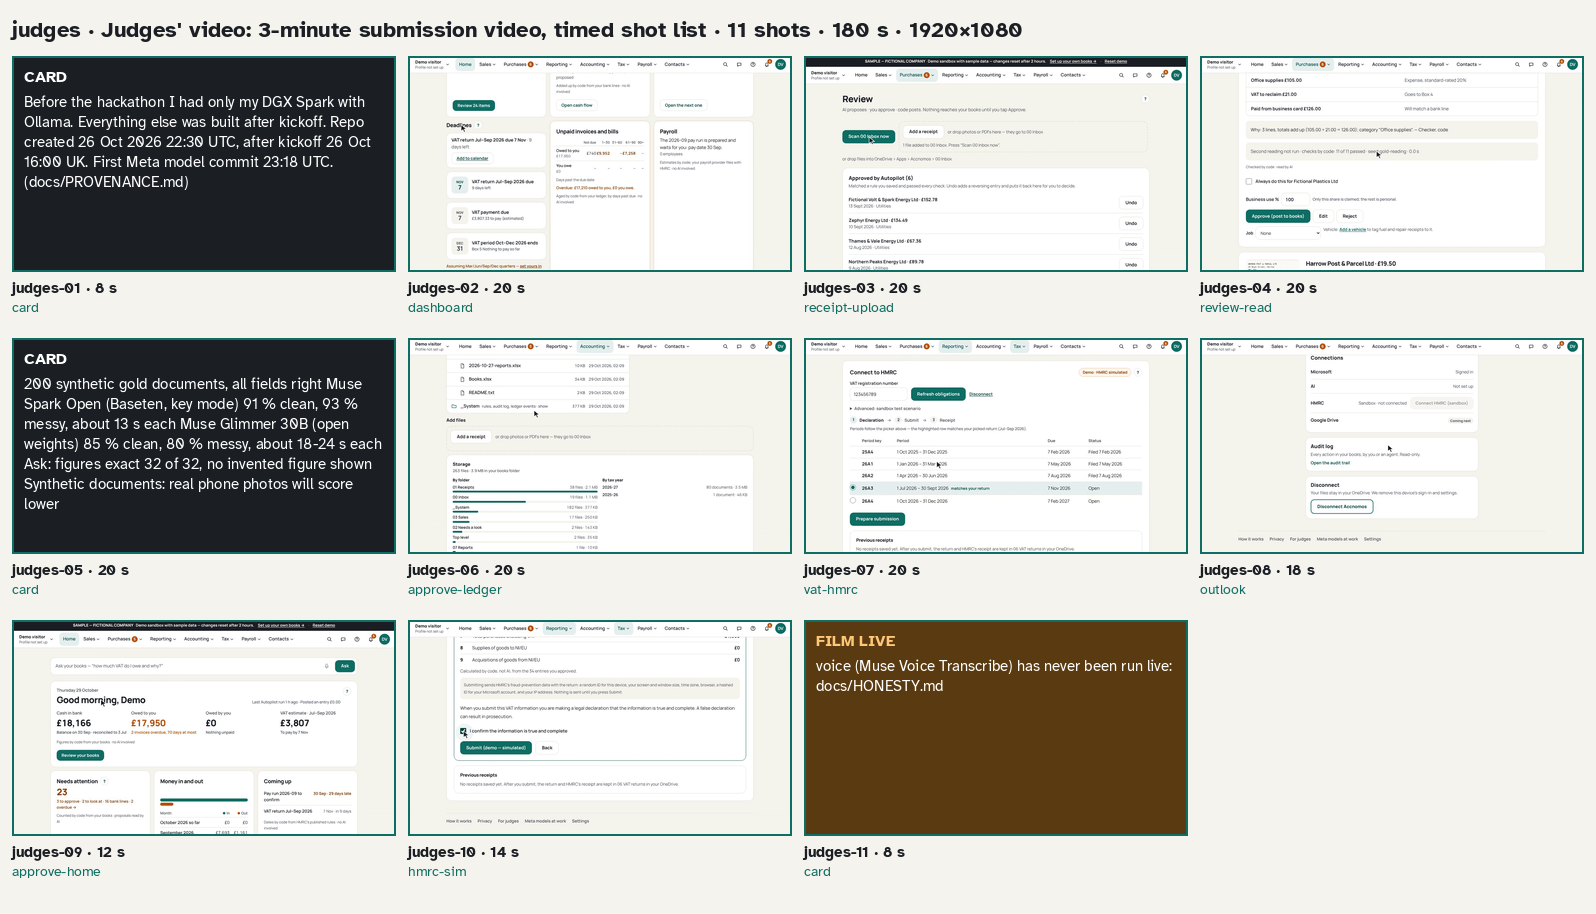
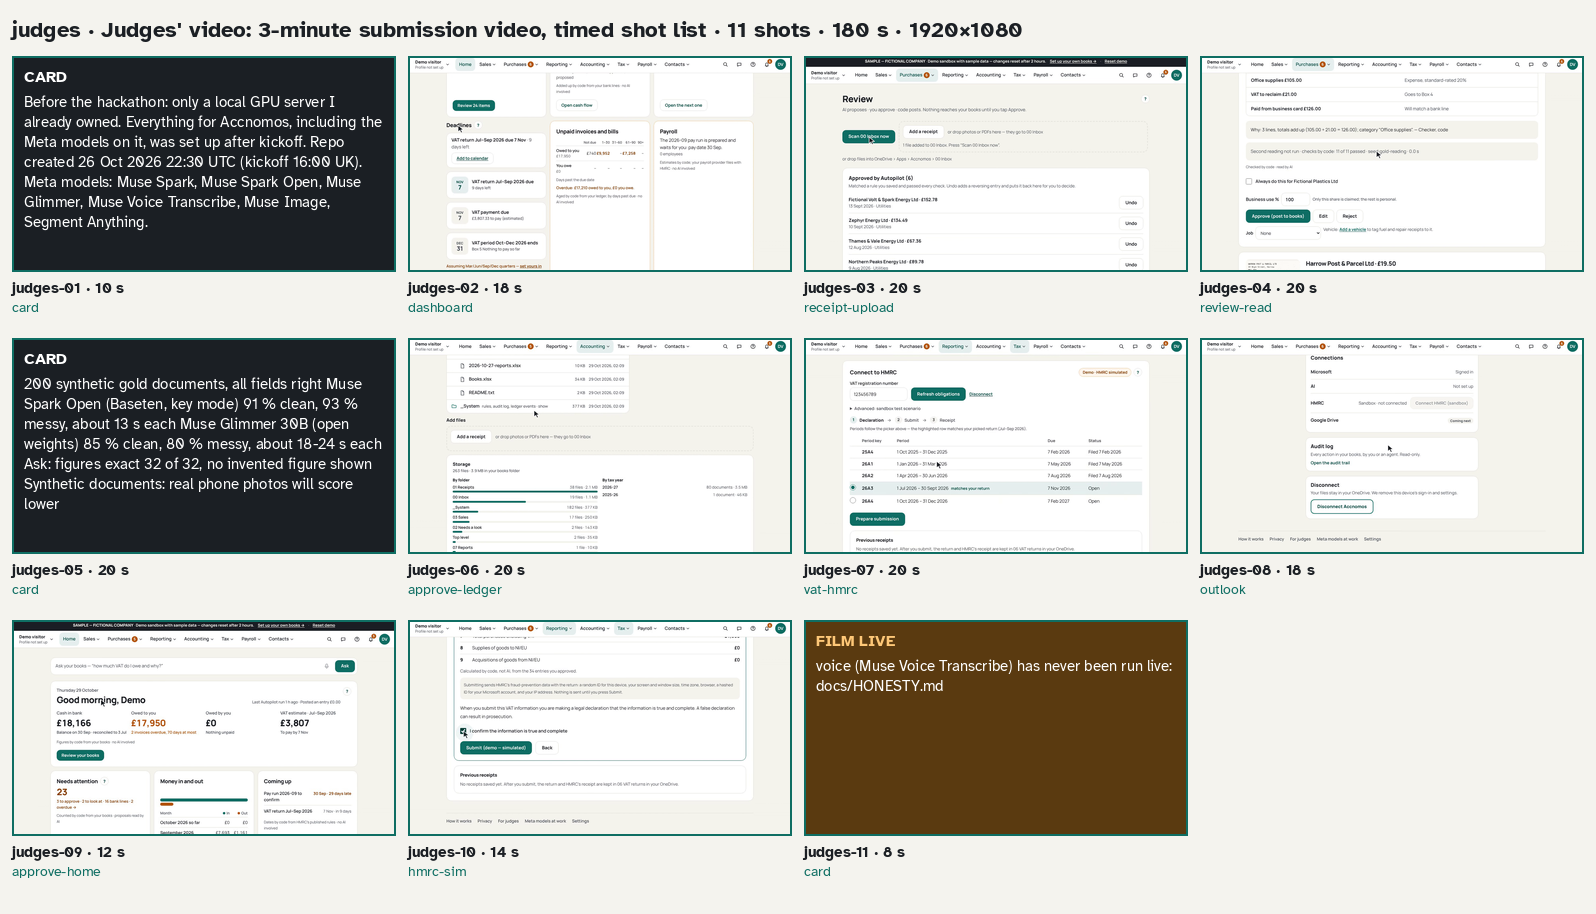
Judges' video: shot 1 in the owner's wording (10 s, no hardware or tool names, Meta model list checked on main), shot 2 18 s, end card credits Muse Image only; guide covers; README split into judge-facing and internal
Claude-Session: https://claude.ai/code/session_01HDbAb81oUbcP9a4zGEqsA9

Changed region(s): [[0.0, 0.0919, 0.2456, 0.2451], [0.307, 0.3063, 0.3377, 0.337], [0.0614, 0.3063, 0.0921, 0.337]]

diff --git a/docs/video/README.md b/docs/video/README.md
@@ -1,74 +1,58 @@
 # Video footage, previews and how-to screenshots
 
-Everything here is generated from the scripts by `tools/video/` (branch `claude/video-capture`, 29 Oct 2026):
+Everything here is generated from the scripts by `tools/video/` (branch `claude/video-capture`). How to regenerate it,
+step by step, is in `tools/video/README.md`.
+
+Credit: **Title art: Muse Image (Meta).**
 
 | What | Where | In git |
 |---|---|---|
 | Scripts (Muse Spark) | `JUDGES_VIDEO.md` (3:00, 11 shots), `CLIPS.md` (8 clips × 35 s) | yes |
-| Shot list with timing, caption, voice-over, flow, and why a shot must be re-filmed live | `manifest.json` | yes |
+| Prompts for the title, section, thumbnail and guide-cover art | `IMAGE_PROMPTS.md` (32 cards) | yes |
+| The art itself (Muse Image, `muse-image-1.0`), each with a JSON sidecar: model, prompt, date | `cards/<id>.png` | once generated |
+| Shot list with timing, caption, voice-over, flow, section, and why a shot must be re-filmed live | `manifest.json` | yes |
 | Contact sheets, one frame per shot | `contact-sheet-judges.png`, `contact-sheet-clip-01.png` … `-08.png` | yes |
-| Raw silent footage per shot (1920 × 1080 judges, 1080 × 1920 clips, VP9 WebM, 30 fps) | `raw/<shot-id>.webm` | under 5 MB each, yes; over 5 MB listed in `raw/.gitignore` |
-| Silent previews with burned captions | `preview/judges.mp4`, `preview/clip-01.mp4` … | no (regenerate) |
+| Raw silent footage per shot (1920 × 1080 judges, 1080 × 1920 clips, 30 fps) | `raw/<shot-id>.webm` | under 5 MB each, yes |
+| Silent previews with burned captions, and a 1280 × 720 thumbnail per video | `preview/<sequence>.mp4`, `preview/<sequence>-thumbnail.png` | no (regenerate) |
 | Final renders with voice-over | `out/<sequence>.mp4` | no |
-| Voice-over lines for TTS; the WAVs | `vo/lines.json`; `vo/<shot-id>.wav` | lines yes; WAVs your call |
-| How-to screenshots (1440 × 900, cropped, highlight box) | `../howto/img/<guide>-<N>.png` | yes |
+| Voice-over lines, one per shot | `vo/lines.json` (the WAVs go in `vo/<shot-id>.wav`) | lines yes |
+| How-to screenshots (1440 × 900, cropped, highlight box) and guide covers (1280 × 720) | `../howto/img/` | yes |
 
 ## Look first
 
 1. `contact-sheet-judges.png`: every judges' shot at a glance; amber tiles failed, brown tiles are *Film live* or
    camera placeholders.
-2. `preview/judges.mp4` (regenerate, or the copy sent in the session): the 3:00 cut with captions and cards, silent.
+2. `preview/judges.mp4` and `preview/judges-thumbnail.png` (regenerate with `tools/video/assemble.sh`).
 3. `manifest.json` → each shot's `live` field: what the test-mode build cannot show honestly (list below).
-4. `../howto/*.md`: the guides now render with their screenshots; `../howto/img/SHOTS.md` says which page and control
-   each picture boxes, and which are approximate.
+4. `../howto/*.md`: the guides render with a cover and a screenshot per step; `../howto/img/SHOTS.md` says which
+   control each picture boxes, and which are approximate.
 
-## Regenerate
+## Cards and art
 
-```bash
-tools/video/regenerate.sh
-```
+Every word on a card (titles, the provenance lines, the eval table, captions, the end card and its credit) is drawn by
+`tools/video/assemble.sh` on top of the art, so it is crisp and exactly as scripted; the art carries no text. Until
+`tools/video/muse_images.py` has made a card's picture, that card is plain brand colour (dark teal `#0A4F47`), so the
+previews always build.
 
-That runs, in order (each also works on its own):
+| Art | Used for |
+|---|---|
+| `judges-title` | Shot 1, the opening card on what existed before the event |
+| `section-impact`, `section-meta-ai`, `section-depth`, `section-demo` | Card shots in each part of the judges' video (the measured-numbers card is `section-meta-ai`); `section-demo` is also the end card |
+| `clip-NN-title` | The 2 s title card of each clip |
+| `thumb-judges`, `thumb-clip-NN` | Thumbnails |
+| `howto-<guide>` | Guide covers (`../howto/img/<guide>-cover.png`) |
 
-- `node tools/video/capture.ts [--skip-build] [--only judges-04,clip-03] [--plan]`: builds the test-mode export with
-  `NEXT_PUBLIC_SUBMISSION_MODE=1` (the judges' build), starts the test-mode runtime with `DEMO_MODE=1` and the static
-  server (unless already running on 8781 / 3100), and records every shot from Chromium's compositor (CDP screencast,
-  JPEG 92, then ffmpeg to constant 30 fps). Each shot starts a fresh demo sandbox off camera, so the books are the same
-  every time: the fictional Bramblewood Joinery Ltd, labelled SAMPLE — FICTIONAL COMPANY. `--plan` prints the shot →
-  flow table without recording.
-- `node tools/video/howto.ts [--only vat-return] [--dry-run]`: one screenshot per placeholder in `docs/howto/*.md`,
-  then rewrites the placeholder as the image (the "Must be visible" brief becomes its alt text).
-- `python3 tools/video/vo.py lines`: `vo/lines.json` for the TTS run.
-- `tools/video/assemble.sh [--final] [--only judges] [--no-test-tag]`: per shot, fit the footage to the script's
-  length (held on the last frame if short; sped up and tagged *sped up ×n* if long), burn the caption (Atkinson
-  Hyperlegible, white on a dark box, inside 10 % side and 8 % bottom margins; 12 % bottom in vertical clips so it sits
-  above the phone UI), draw cards (provenance, eval table, end card) from the script's text, and lay
-  `vo/<shot-id>.wav` on the shot or silence when there is none. The judges' video always opens with the provenance
-  card (the script's own shot 1, else a built-in one from `docs/PROVENANCE.md`); clips open on a 2 s title card.
+## Opening card (shot 1), the owner's rule
 
-Needs Node 22.18+ (it runs the TypeScript directly), `pnpm install` in `apps/web`, the runtime's Python
-(`uv sync --all-packages`, or `E2E_PYTHON`), and ffmpeg with libass and libvpx. Nothing contacts Meta, Microsoft or
-HMRC. A full capture takes about 10 minutes on a 4-core box.
+No hardware name and no third-party tool name anywhere judge-facing in the video. Shot 1 reads:
 
-How the pieces fit: `tools/video/lib/script.ts` reads both script layouts (headed "Shot N — … (0:08–0:28, 20 s)"
-sections with Screen / On-screen action / Caption / Voice-over paragraphs, and Markdown tables with Time, Screen,
-Caption and Voice-over columns); `tools/video/flows.ts` holds one scripted flow per thing a shot can show and
-`SHOT_PLAN`, the flow for each shot id; `tools/video/lib/human.ts` draws the cursor (headless Chromium paints none),
-glides it with easing, types at 55–130 ms a key and scrolls smoothly; `tools/video/lib/recorder.ts` records.
-When Muse changes a script, re-run `--plan`: a new shot id needs a line in `SHOT_PLAN` (otherwise a keyword rule picks
-a flow), and a changed duration needs nothing.
+> Before the hackathon: only a local GPU server I already owned. Everything for Accnomos, including the Meta models on
+> it, was set up after kickoff. Repo created 26 Oct 2026 22:30 UTC (kickoff 16:00 UK). Meta models: Muse Spark, Muse
+> Spark Open, Muse Glimmer, Muse Voice Transcribe, Muse Image, Segment Anything.
 
-## Voice-over on the Spark
-
-1. `git pull`, then `python3 tools/video/vo.py lines` (or use the committed `vo/lines.json`).
-2. Make the WAVs with the teaser's Kokoro set-up (voice `bm_george`, British English, 24 kHz mono):
-   `python tools/video/vo.py kokoro` writes `vo/<shot-id>.wav` for every line that has none (`--force` redoes them)
-   and prints each length against its shot. Any TTS works if the files keep those names. *Not run in the cloud
-   session that wrote it (no Kokoro there).*
-3. `tools/video/assemble.sh --final` → `out/judges.mp4` and `out/clip-NN.mp4` (H.264 CRF 18, AAC 160 kb/s).
-   It warns when a WAV is longer than its shot (the end is cut): shorten the line or lengthen the shot in the script.
-4. Swap in the live footage (below) by replacing `raw/<shot-id>.webm` with your recording, same name, then re-run
-   step 3. Once no stubbed screen is left, add `--no-test-tag`.
+The model list was checked on 29 Oct 2026 against `docs/submission/META_MODELS.md` on `main` (`715c564`): all six are
+in the build (Segment Anything is wired and off by default; Muse Image made the brand and title art). Check it again on
+the day you record and drop any that has left `main`.
 
 ## Shots the test-mode build cannot show honestly
 
@@ -79,7 +63,7 @@ the final cut. From `SHOT_PLAN` in `tools/video/flows.ts`:
 | Shot | What to film live | Why |
 |---|---|---|
 | judges-03, clip-01-02 | Android camera capture; an Outlook email arriving | The app has never run on a real device; no real mailbox in the demo |
-| judges-04 | The reader line naming Muse Glimmer / Muse Spark on a live reading | In test mode the card's reader is the stub |
+| judges-04 | The reader line naming a Meta model on a live reading | In test mode the card's reader is the stub |
 | judges-07, judges-10, clip-03-02 | Connect to HMRC's sandbox, obligations, declaration, receipt | The demo simulates HMRC ("Demo — submission simulated") |
 | judges-08, clip-01-01 | Outlook intake on a throwaway mailbox | The demo has no mailbox |
 | judges-09, clip-02-02 | Home's AI summary | In test mode it reads "Test stub summary" (hidden in the captures) |
@@ -88,31 +72,30 @@ the final cut. From `SHOT_PLAN` in `tools/video/flows.ts`:
 | clip-04-03 | The MTD Income Tax sandbox submission | Never run against HMRC |
 | clip-08-01 | The accountant portal on shared books | Needs books shared through Microsoft Graph |
 
-The one thing hidden in captures: Home's summary card (`section[aria-labelledby="home-summary"]`), because in test mode
-it says "Test stub summary … (accnomos-test-stub)". The Ask answer still says "explanation by accnomos-test-stub"
-under its figures; the corner tag covers that until it is re-filmed.
+Do not film *Connect → Choose your AI* or the *Meta models at work* page for the judges' video: both name the local
+hardware or serving tools, which the owner's rule keeps out of the video.
 
 ## Checklist against the judging requirements
 
 Criteria: Impact, Use of Meta AI tooling, Technical depth and execution, Demo quality (equal weight); the video must
 open with one line on what pre-existed and stay within 3:00.
 
-- [x] **Opens with what pre-existed**: shot 1 is the provenance card (DGX Spark with Ollama only; repo created
-      26 Oct 22:30 UTC after the 16:00 kickoff; `docs/PROVENANCE.md`), held 8 s.
-- [x] **Length**: 180 s exactly (11 shots); each clip 35 s plus a 2 s title card.
+- [x] **Opens with what pre-existed**: shot 1 (10 s) in the owner's wording, no hardware or tool names.
+- [x] **Length**: 180 s exactly (shot 1 10 s, shot 2 trimmed to 18 s); each clip 35 s plus a 2 s title card.
+- [x] **Credit**: the end card carries "Title art: Muse Image (Meta)." on its own line; nothing else is credited.
 - [x] **Impact** (shots 2–3): the dashboard and MTD deadlines are real footage; shot 3 needs the phone filmed.
 - [ ] **Use of Meta AI tooling** (shots 4–5): the eval card is drawn from the script's table, which matches
-      `docs/submission/META_MODELS.md` (91/93 % Spark Open, 85/80 % Glimmer, Ask 32/32, synthetic). Shot 4 needs a
-      live reading so the card names a Meta model honestly.
+      `docs/submission/META_MODELS.md` (91/93 % Muse Spark Open, 85/80 % Muse Glimmer, Ask 32/32, synthetic). Shot 4
+      needs a live reading so the card names a Meta model honestly. Muse Image appears as the title art.
 - [x] **Technical depth** (shots 6–7): approve → ledger event file → `Books.xlsx`, and the nine VAT boxes by code, are
-      real footage. **Check before recording:** shot 7's voice-over quotes "1260 runtime checks, 208 browser tests and
-      248 app tests", the owner's 28 Oct gate figures (`docs/HONESTY.md`); re-run the gates and update the line.
+      real footage. **Check before recording:** shot 7's voice-over quotes the 28 Oct test counts (1260 / 208 / 248);
+      the e2e count alone was 477 on 29 Oct. Re-run the gates and update the line.
 - [ ] **HMRC wording**: shot 10's caption says "VAT return submitted to sandbox", but `docs/HONESTY.md` says the browser
       flow has not been run end to end against HMRC's sandbox. Run it off camera first; if it fails, use the script's
       fallback (`submission not yet run end to end`).
-- [ ] **Voice** (shot 11, clip 7): never run live. Either run it live once before filming or replace the shot (the older
-      script, `docs/submission/VIDEO_SCRIPT.md`, said not to film the mic).
-- [x] **Demo quality**: smooth cursor, human-speed typing, captions burned in at accessible size, no dev overlays
-      (static export, no Next.js indicator), SAMPLE — FICTIONAL COMPANY banner on every app screen.
+- [ ] **Voice** (shot 11, clip 7): never run live. Either run it live once before filming or replace the shot.
+- [x] **Demo quality**: smooth cursor, human-speed typing, captions burned in at accessible size, no dev overlays,
+      SAMPLE — FICTIONAL COMPANY banner on every app screen.
 - [x] **No secrets on screen**: the demo sandbox has no keys, tokens, passwords or real mailboxes.
-- [ ] **Voice-over**: Kokoro WAVs on the Spark, then `assemble.sh --final`, then watch it through once with the sound on.
+- [ ] **Title art**: run `tools/video/muse_images.py` with the Meta key, look at `cards/`, re-run `assemble.sh`.
+- [ ] **Voice-over**: render the WAVs, `assemble.sh --final`, then watch it through once with the sound on.

diff --git a/docs/video/JUDGES_VIDEO.md b/docs/video/JUDGES_VIDEO.md
@@ -9,25 +9,34 @@ says is untested or unavailable.
 Conventions: each shot names the app route or screen, the on-screen action, a
 caption of at most 8 words, and the spoken voice-over with its word count.
 
-## Shot 1 — what existed before the event (0:00–0:08, 8 s)
+## Shot 1 — what existed before the event (0:00–0:10, 10 s)
 
-Screen: black card, white text (still, 1280 × 720).
+Screen: dark card, white text (still, 1920 × 1080), over the Muse Image title
+art if it has been generated (`docs/video/cards/`).
 
-On-screen action: card holds for the full 8 s:
+On-screen action: card holds for the full 10 s:
 
-> Before the hackathon I had only my DGX Spark with Ollama.
-> Everything else was built after kickoff.
-> Repo created 26 Oct 2026 22:30 UTC, after kickoff 26 Oct 16:00 UK.
-> First Meta model commit 23:18 UTC. (docs/PROVENANCE.md)
+> Before the hackathon: only a local GPU server I already owned.
+> Everything for Accnomos, including the Meta models on it, was set up after kickoff.
+> Repo created 26 Oct 2026 22:30 UTC (kickoff 16:00 UK).
+> Meta models: Muse Spark, Muse Spark Open, Muse Glimmer, Muse Voice Transcribe, Muse Image, Segment Anything.
 
-Caption: `Only Spark hardware predates the event` (6 words).
+Caption: `Only a local server predates the event` (7 words).
 
-Voice-over (17 words, ≤ 20): "Before the hackathon I had only
-my DGX Spark with Ollama. Everything else was built after kickoff."
+Voice-over (23 words, ≤ 25): "Before the hackathon I had only a local
+server. Everything you see, and the Meta models it runs, was set up after
+kickoff."
 
-## Impact — who it helps, MTD deadlines (0:08–0:48, 40 s)
+Owner's rule for this card and everything judge-facing in the video: no
+hardware name and no third-party tool name. The model list was checked on
+29 Oct 2026 against `docs/submission/META_MODELS.md` on `main` (`715c564`):
+all six are in the build (Muse Voice Transcribe merged in `b589cd7`; Muse Image
+made the brand and title art; Segment Anything is wired, off by default).
+Check it again on the day you record and drop any model that is not on `main`.
 
-### Shot 2 — one dashboard for the compulsory part (0:08–0:28, 20 s)
+## Impact — who it helps, MTD deadlines (0:10–0:48, 38 s)
+
+### Shot 2 — one dashboard for the compulsory part (0:10–0:28, 18 s)
 
 Screen: Home dashboard (`/`), demo sandbox with the SAMPLE — FICTIONAL COMPANY
 banner over six months of the fictional joinery's books.
@@ -38,7 +47,7 @@ update, Self Assessment 31 January).
 
 Caption: `Digital records and MTD deadlines, one dashboard` (7 words).
 
-Voice-over (44 words, ≤ 50): "Accnomos helps UK small businesses, sole
+Voice-over (44 words, ≤ 45): "Accnomos helps UK small businesses, sole
 traders and landlords with the compulsory part: digital records and Making Tax
 Digital filings. The dashboard shows cash, what is owed, and what is due: the
 VAT return, quarterly Income Tax updates, and Self Assessment on 31 January."
@@ -173,7 +182,8 @@ Screen: Ask (`/ask`), then end card over Home.
 
 On-screen action: hold the mic button and say the line; the timesheet card
 appears; cut to the end card: `github.com/zaytunazs/accnomos · Sample data ·
-HMRC sandbox · docs/HONESTY.md lists every gap`.
+HMRC sandbox · docs/HONESTY.md lists every gap · Title art: Muse Image (Meta).`
+(the credit sits on its own line under the rest).
 
 Caption: `Voice becomes an approval card` (5 words).
 

diff --git a/docs/howto/income-tax-update.md b/docs/howto/income-tax-update.md
@@ -1,5 +1,7 @@
 # Income Tax quarterly update (sole trader or landlord)
 
+![Income Tax quarterly update (sole trader or landlord)](img/income-tax-update-cover.png)
+
 Who this is for: a sole trader or landlord sending Making Tax Digital Income
 Tax updates. Deadlines for standard quarters: 7 August, 7 November, 7 February
 and 7 May, with Self Assessment on 31 January. HMRC contact is sandbox only.

diff --git a/docs/howto/connect-books.md b/docs/howto/connect-books.md
@@ -1,5 +1,7 @@
 # Connect your books (OneDrive) or try the demo
 
+![Connect your books (OneDrive) or try the demo](img/connect-books-cover.png)
+
 Who this is for: a new owner opening Accnomos for the first time, with a
 Microsoft account and no books set up yet. All data shown is the demo sandbox's
 sample company, labelled SAMPLE — FICTIONAL COMPANY.

diff --git a/docs/howto/payroll-paye.md b/docs/howto/payroll-paye.md
@@ -1,5 +1,7 @@
 # Run payroll and file with Basic PAYE Tools
 
+![Run payroll and file with Basic PAYE Tools](img/payroll-paye-cover.png)
+
 Who this is for: an employer running a pay run. Accnomos estimates the run
 and prepares the files; it never files payroll or pays HMRC. You file with
 HMRC's Basic PAYE Tools or your payroll provider.

diff --git a/docs/howto/voice-chat.md b/docs/howto/voice-chat.md
@@ -1,5 +1,7 @@
 # Use voice and chat
 
+![Use voice and chat](img/voice-chat-cover.png)
+
 Who this is for: an owner asking about the books hands-free or in plain words.
 Answers are grounded in your books; instructions become cards that wait for
 Approve. Voice needs key mode with your Meta key; the browser records, the

diff --git a/docs/howto/add-mailbox.md b/docs/howto/add-mailbox.md
@@ -1,5 +1,7 @@
 # Add a mailbox
 
+![Add a mailbox](img/add-mailbox-cover.png)
+
 Who this is for: an owner who gets supplier receipts by email and wants them
 picked up automatically. Intake is read-only: it never sends, moves or deletes
 mail. Never run against a real mailbox without testing on a throwaway first.

diff --git a/docs/howto/vat-return.md b/docs/howto/vat-return.md
@@ -1,5 +1,7 @@
 # Do a VAT return
 
+![Do a VAT return](img/vat-return-cover.png)
+
 Who this is for: a VAT-registered owner filing through Making Tax Digital. The
 HMRC connection in the product today is sandbox only: it practises the full
 flow, not a live filing.

diff --git a/docs/howto/invite-accountant.md b/docs/howto/invite-accountant.md
@@ -1,5 +1,7 @@
 # Invite your accountant
 
+![Invite your accountant](img/invite-accountant-cover.png)
+
 Who this is for: an owner giving their accountant access to the same books.
 They open your files; every change they make is recorded under their name.
 

diff --git a/docs/howto/export-accountant.md b/docs/howto/export-accountant.md
@@ -1,5 +1,7 @@
 # Export for your accountant
 
+![Export for your accountant](img/export-accountant-cover.png)
+
 Who this is for: an owner sending a period's records to their accountant.
 Exports are copies; the books stay untouched in your OneDrive.
 

diff --git a/docs/howto/reconcile-bank.md b/docs/howto/reconcile-bank.md
@@ -1,5 +1,7 @@
 # Reconcile bank lines
 
+![Reconcile bank lines](img/reconcile-bank-cover.png)
+
 Who this is for: an owner matching a bank statement against the books. Import
 a CSV; Accnomos never connects to your bank.
 

diff --git a/docs/howto/review-approve.md b/docs/howto/review-approve.md
@@ -1,5 +1,7 @@
 # Review and approve
 
+![Review and approve](img/review-approve-cover.png)
+
 Who this is for: an owner clearing the Review queue. AI proposes, code checks,
 you approve: nothing posts on its own.
 
